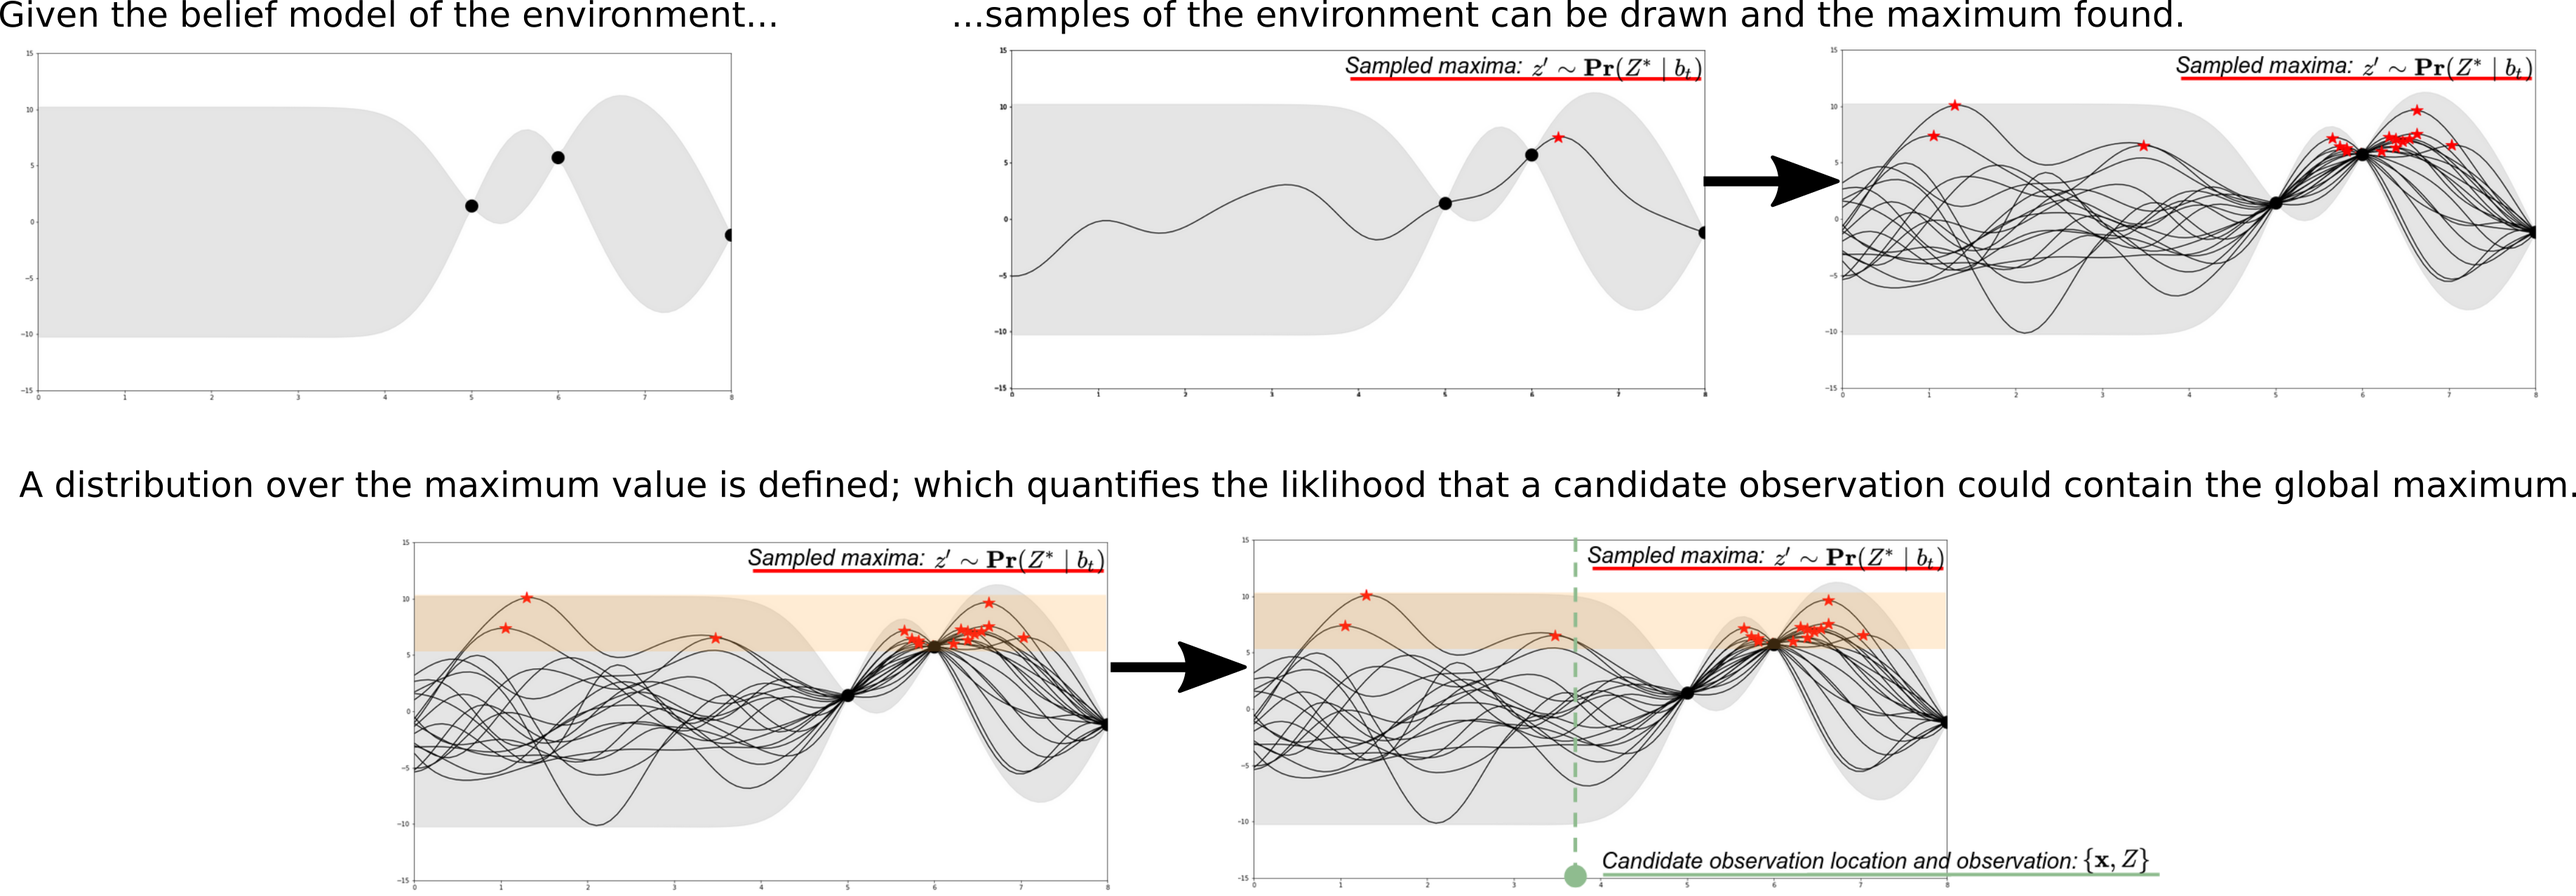
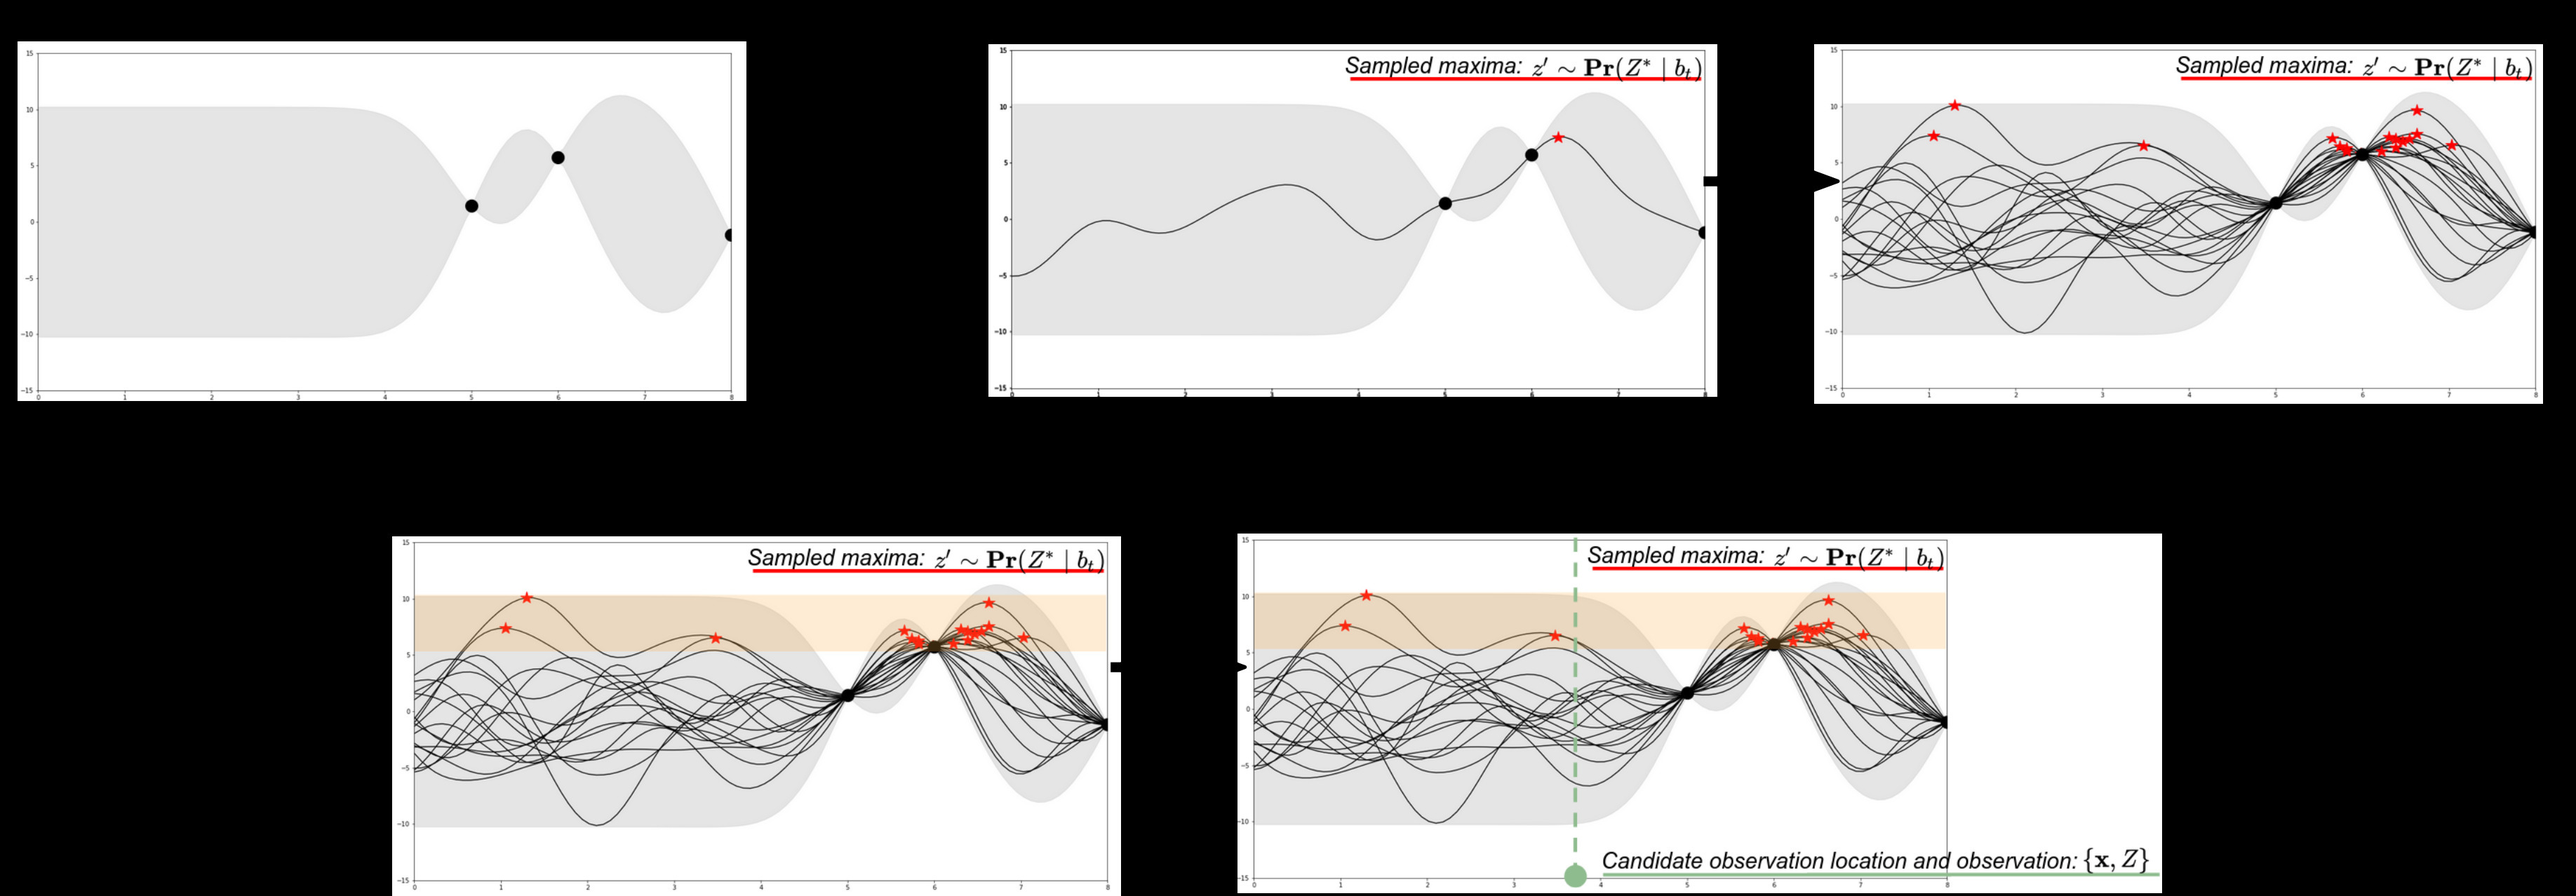
convert to png format

diff --git a/about/index.html b/about/index.html
@@ -4,7 +4,7 @@ title: About
 ---
 
 <div class="about">
-	<p> <img src="about/figures/vpreston_grad.jpg" alt="Victoria Preston" style="float:right;width:400px;padding:30px" /></p>		
+	<p> <img src="about/figures/vpreston_grad.png" alt="Victoria Preston" style="float:right;width:400px;padding:30px" /></p>		
 	<p>Hello! I am a PhD student in the <a style="color:rgb(12, 210, 236); font-size:1.1em" href="https://mit.whoi.edu/">Massachusetts Institute of Technology and Woods Hole Oceanographic Institution Joint Program</a> (MIT-WHOI JP), in which I split my time between the MIT AeroAstro department and the WHOI Applied Ocean Physics and Engineering department. I work with the <a style="color:rgb(12, 210, 236); font-size:1.1em" href="https://groups.csail.mit.edu/rrg/">Robust Robotics Group</a> led by Nicholas Roy (MIT) and the <a style="color:rgb(12, 210, 236); font-size:1.1em" href="https://www.whoi.edu/profile/amichel/">Chemical Sensors Laboratory</a> led by Anna Michel (WHOI) on research at the intersection of artificial intelligence, machine learning, environmental science, and numerical modeling.</p> 
 	<p>My research goal is to enable <i>intelligent mobile scientific observatories</i> for robust and autonomous long-term monitoring of complex, dynamic environments. I'm particularly motivated by geochemical contexts in which a robot may be tasked with mapping greenhouse gases or toxic chemicals in aquatic or atmospheric systems. My <a style="color:rgb(12, 210, 236); font-size:1.1em" href="https://core.ac.uk/download/pdf/286027858.pdf">SM thesis</a> presented a novel robotic decision-making framework for maximum-seeking in potentially transient environments. Through this work, I identified key challenges for designing a suitable autonomy system for monitoring spatiotemporal environments that I now address in my PhD work: <b>data efficiency in learning</b>, <b>inference over high-dimensional states</b>, and <b>planning in chaotic systems</b>. Currently, my work is focused on developing a data-efficient probabilistic model to learn spatiotemporal dynamics from sparse robotic measurements.</p>
 
